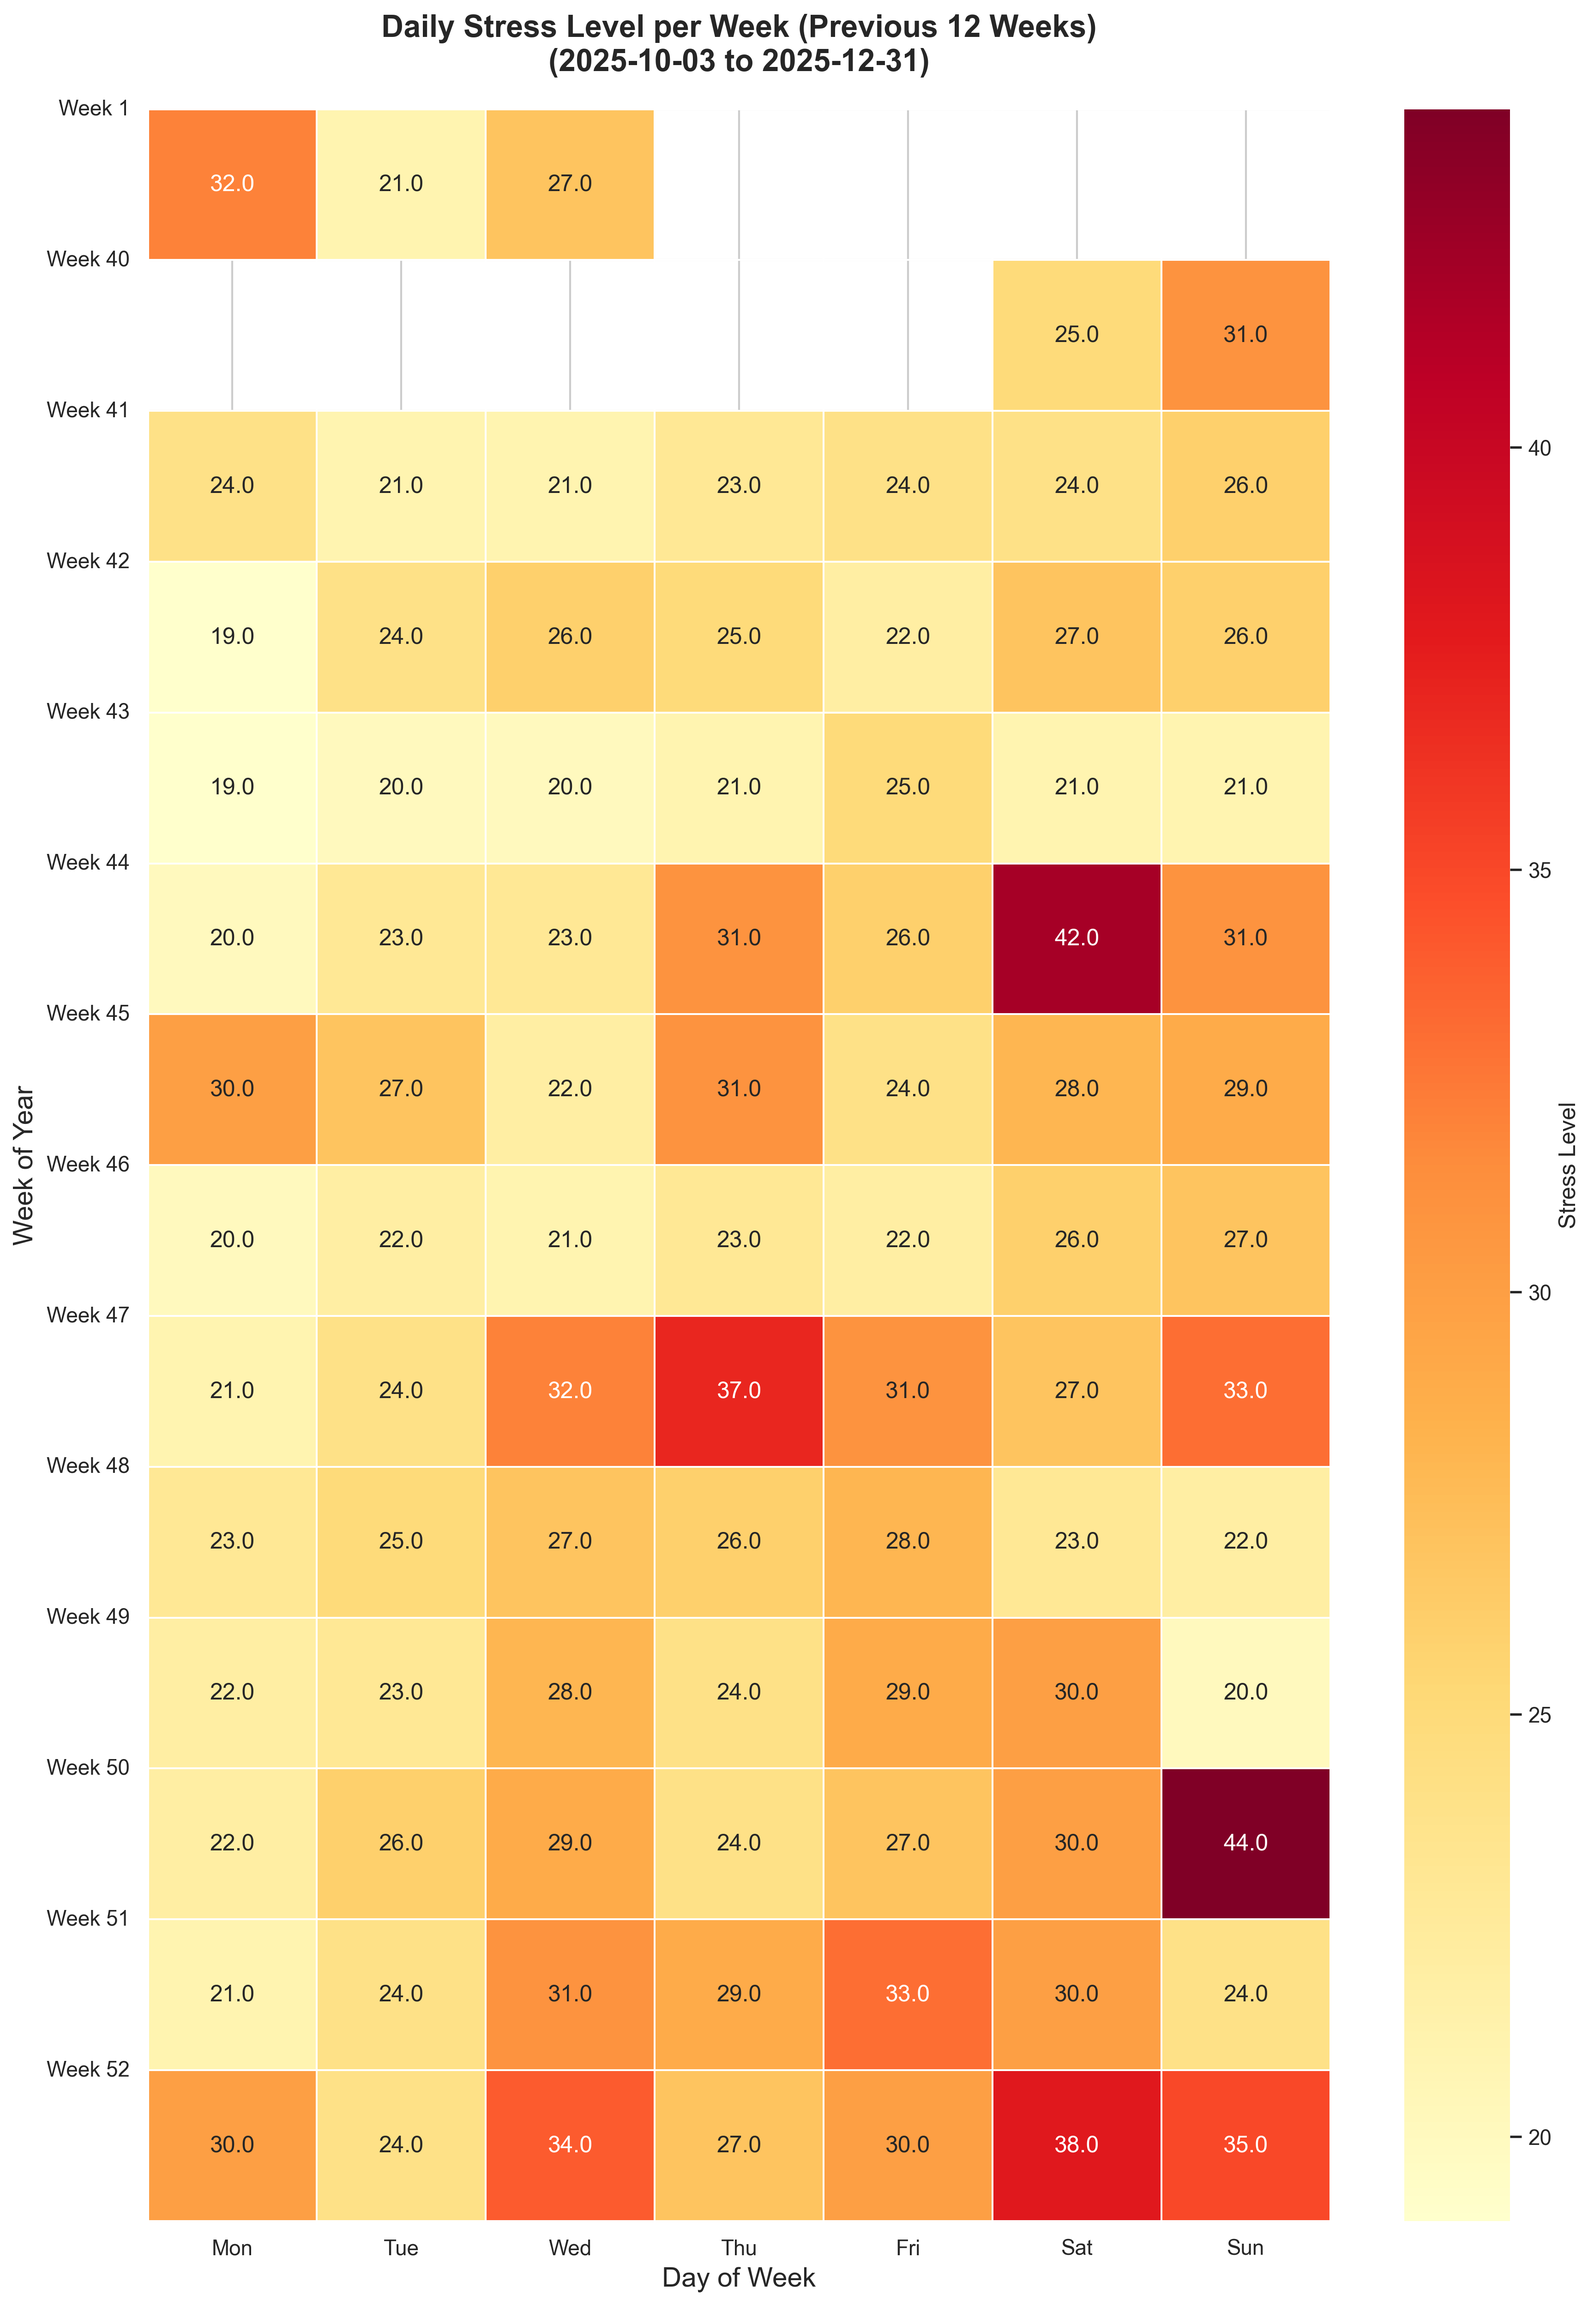
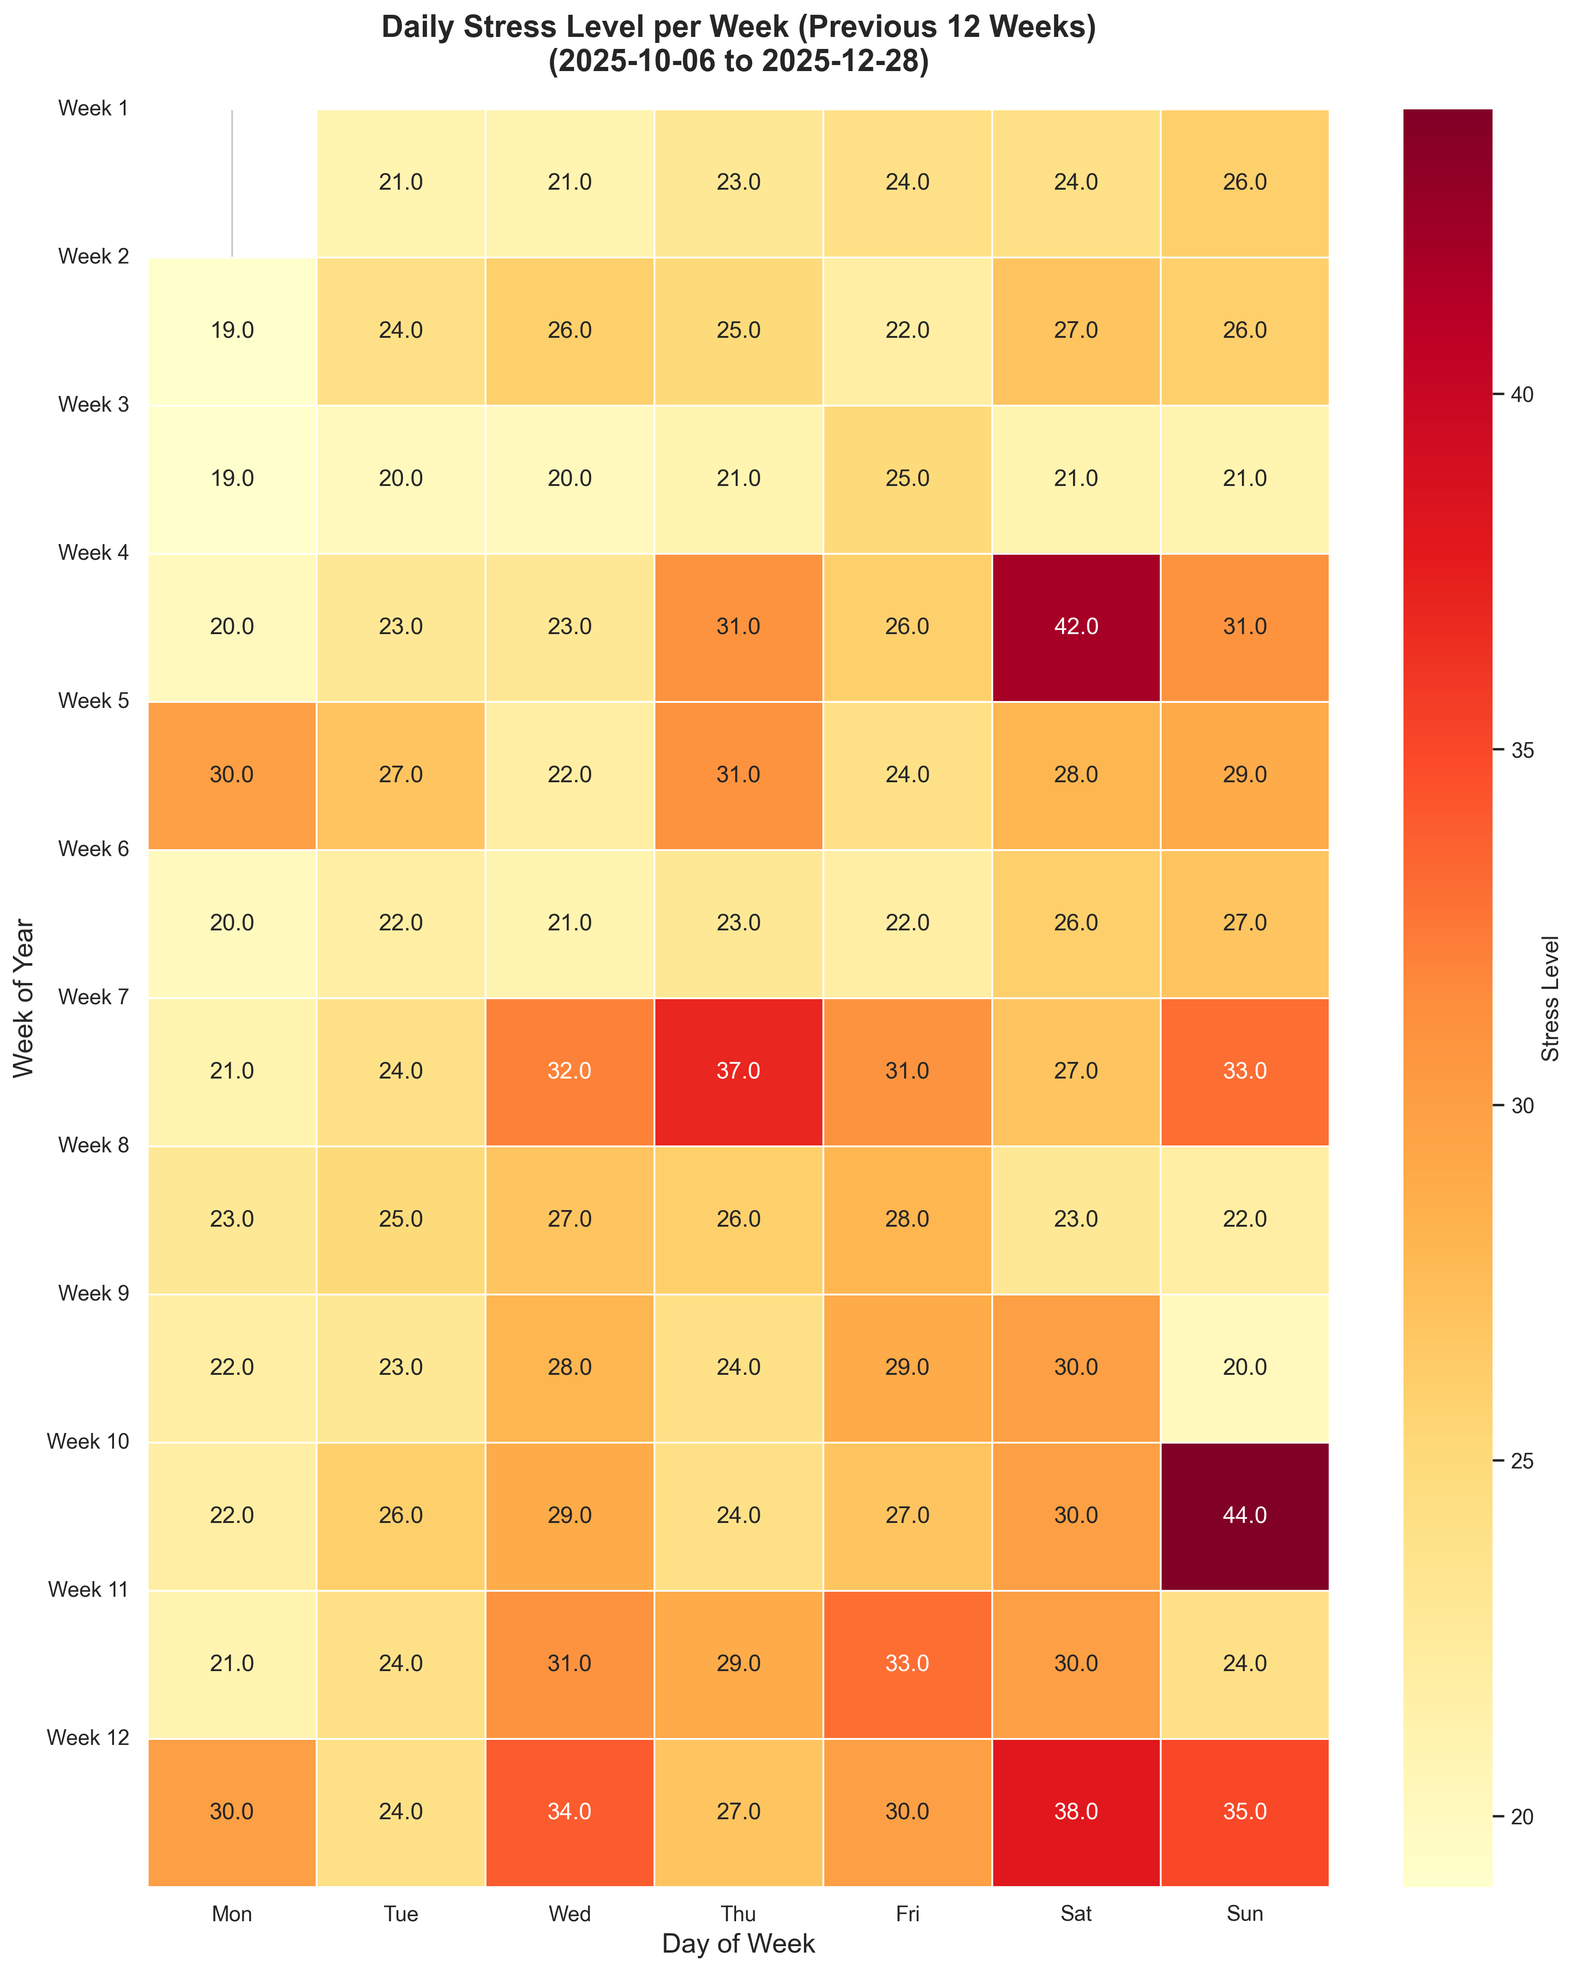
Updated 2025-q4 post

diff --git a/notebooks/stress_heatmap_12weeks.py b/notebooks/stress_heatmap_12weeks.py
@@ -28,11 +28,14 @@ def create_stress_heatmap_12weeks():
     # Create images directory if it doesn't exist
     os.makedirs('images', exist_ok=True)
     
-    # Calculate date range for previous 12 weeks (84 days)
-    start_date = end_date - timedelta(days=84)  # Exactly 12 weeks
+    # Normalize end_date to a date object to avoid mixed datetime/date arithmetic
+    end_date_obj = end_date.date() if isinstance(end_date, dt.datetime) else end_date
+    days_since_sunday = (end_date_obj.weekday() + 1) % 7
+    end_of_last_complete_week = end_date_obj - timedelta(days=days_since_sunday)
+    start_date = end_of_last_complete_week - timedelta(days=83)
     
-    print(f"Creating heatmap for stress levels from {start_date} to {end_date}")
-    print(f"Date range: {end_date - start_date} days (12 weeks)")
+    print(f"Creating heatmap for stress levels from {start_date} to {end_of_last_complete_week}")
+    # print(f"Date range: {end_of_last_complete_week - start_date} days (12 weeks)")
     
     # Initialize Garmin database connection
     gc_config = GarminConnectConfigManager()
@@ -40,7 +43,7 @@ def create_stress_heatmap_12weeks():
     
     # Query stress data for the previous 12 weeks
     start_ts = datetime.combine(start_date, datetime.min.time())
-    end_ts = datetime.combine(end_date, datetime.max.time())
+    end_ts = datetime.combine(end_of_last_complete_week, datetime.max.time())
     
     # Get daily summary data for the period
     sum_db = SummaryDb(db_params_dict, False)
@@ -61,10 +64,12 @@ def create_stress_heatmap_12weeks():
     
     # Populate the matrix by relative week index (0 = oldest week, 11 = most recent)
     for entry in stress_data:
-        diff_days = (entry.day - start_date).days
+        # Ensure we compare dates, not datetimes
+        entry_day = entry.day.date() if isinstance(entry.day, dt.datetime) else entry.day
+        diff_days = (entry_day - start_date).days
         if 0 <= diff_days < 12 * 7:
             week_idx = diff_days // 7
-            day_of_week = entry.day.weekday()  # 0=Monday, 6=Sunday
+            day_of_week = entry_day.weekday()  # 0=Monday, 6=Sunday
             heatmap_matrix[week_idx][day_of_week] = entry.stress_avg
     
     # Week labels (1-12)
@@ -102,7 +107,7 @@ def create_stress_heatmap_12weeks():
     # Add extra vertical padding by adjusting the spacing
     ax.figure.subplots_adjust(left=0.15, right=0.85, top=0.95, bottom=0.1)
     
-    plt.title(f'Daily Stress Level per Week (Previous 12 Weeks)\n({start_date.strftime("%Y-%m-%d")} to {end_date.strftime("%Y-%m-%d")})', 
+    plt.title(f'Daily Stress Level per Week (Previous 12 Weeks)\n({start_date.strftime("%Y-%m-%d")} to {end_of_last_complete_week.strftime("%Y-%m-%d")})', 
               fontsize=16, fontweight='bold', pad=20)
     plt.xlabel('Day of Week', fontsize=14)
     plt.ylabel('Week of Year', fontsize=14)

diff --git a/content/posts/2025-q4-health-review/index.md b/content/posts/2025-q4-health-review/index.md
@@ -19,10 +19,10 @@ One part of the test is flipping what could be so many negative thoughts into po
 
 As usual, there are four areas that I wanted to focus on:
 
-- *Improve fitness* by training more. My goal is to get above a 75 fitness score on intervals.icu
+- *Improve fitness* by training more. My goal is to maintain 800 intensity minutes on average per week.
 - *Sleep better* by improving my sleep hygiene and experimenting with meal timing.
-- *Reduce Stress* by examining meal composition and avoiding anything that might impact my sleep
-- *Improve Biomarkers* by looking at my nutrition, as well as the above items.
+- *Reduce stress* by examining meal composition and avoiding anything that might impact my sleep
+- *Improve biomarkers* by looking at my nutrition, as well as the above items.
 
 Overall most metrics saw a decrease in Q4, as we can see with the following key metrics.
   ![Summary Chart](2025-q4-health-review/summary.png)
@@ -38,13 +38,10 @@ Looking at the correlations, a few stood out:
 
 I've also used some of Garmin's new Lifelogging feature, and for the quarter the correlations that it picked up were:
 
-Overnight stress: the largest negative impact is being _injured_, and then _illness_, rounded out by _high work stress_
-
-Overnight sleep: the largest positive impact is having a _good wind down_, while the largest negative impact was _being injured_
+* Overnight stress: the largest negative impact is being _injured_, and then _illness_, rounded out by _high work stress_
+* Overnight sleep: the largest positive impact is having a _good wind down_, while the largest negative impact was _being injured_
 
 No surprises here.
-
-Let’s go through how I did this quarter and what I experimented with.
 #### Improve Fitness
 
 ##### Goals  
@@ -58,17 +55,16 @@ I look at intensity minutes as a way to make sure I'm getting enough fitness, re
   ![Weekly Intensity Minutes](2025-q4-health-review/weekly_intensity_minutes.png)
   
 
-My average intensity minutes for the quarter was was 610 minutes per week, which unfortunately is the only quarter in 2025 where I didn't reach my goal.
+My average intensity minutes for the quarter was was 610 minutes per week, which unfortunately is the only quarter in 2025 where I didn't reach my 800 minute goal.
 
-In addition to load we can have a look at Resting Heart Rate, as that is often related to sufficient recovery.
+In addition to load we can have a look at Resting Heart Rate, as that is often related to both load and sufficient recovery.
   ![Average Resting HR Per Month](2025-q4-health-review/average_resting_hr_per_month.png)
 
-And let's look at Vo2Max, which stayed roughly the same this quarter.
+And let's look at Vo2Max, which stayed roughly the same this quarter, but will crash when I start running again. I believe my high was 53 for a few weeks, but falling to 51 eventually as I couldn't make time (or have the discipline?) for my regular levels of fitness.
   ![Monthly Vo2Max Values](2025-q4-health-review/monthly_vo2_max.png)
 ##### Experiments
 
-* No major experiments.
-
+* In week 49-50 I managed to break my ankle, so wasn't able to run much in December. However, I've been meaning to pick up swimming, and while I'm not getting the same cardio effect as I got from running, at least I'm still exercising. I keep reminding myself that this isn't about good/bad, but better/worse. Plus, I'm learning a new skill, which is probably a good thing!
 #### Improve Sleep
 ##### Goals
 - Keep average sleep score about 80 ✅
@@ -81,7 +77,7 @@ And then when comparing each quarter this year we can see some trends with each 
 
 ![Average Sleep Score Per Month](2025-q4-health-review/sleep_score_per_day.png)
 
-Q4 was absolutely a challenging quarter for me from a sleep perspective, in particular in October.
+Q4 was absolutely a challenging quarter for me from a sleep perspective, in particular in October and November. December was more hit and miss, where some nights I would get high 80s, and other nights get 70s. One bad habit that I started to develop was cooking less meal prep, which resulted in both eating out more, and eating later. I think, for me, it really is best to eat a lightish lower carb meal between 4:00pm and 5:00pm.
 ##### Experiments
 
 I conducted a few sleep-related experiments this quarter, including:
@@ -119,9 +115,7 @@ Garmin's method of displaying stress has a delineation between low (blue, <25), 
 - Decrease hsCRP ❓
 ##### Analysis
 
-[INSERT CHART FROM PHENOAGE]:
-
-(Blood panels still to be taken)
+![](Pasted%20image%2020260206192440.png)
 ##### Experiments
 
 I did have a fair amount of experimentation here, including:

diff --git a/content/posts/2025-q3-health-review/index.md b/content/posts/2025-q3-health-review/index.md
@@ -17,8 +17,8 @@ As usual, there are four areas that I wanted to focus on:
 
 - *Improve fitness* by training more. My goal is to maintain 800 intensity minutes on average per week.
 - *Sleep better* by improving my sleep hygiene and experimenting with meal timing.
-- *Reduce Stress* by examining meal composition and avoiding anything that might impact my sleep
-- *Improve Biomarkers* by looking at my nutrition, as well as the above items.
+- *Reduce stress* by examining meal composition and avoiding anything that might impact my sleep
+- *Improve biomarkers* by looking at my nutrition, as well as the above items.
 
 Overall most metrics are improving, as we can see with the following key metrics.
 
@@ -259,15 +259,9 @@ I'll keep experimenting with Cronometer to refine my nutrition, and I've found g
 
 ##### Nutrition
 
-I'll update my Nutty Putting to remove the pea protein in an attempt to get my IGF-1 under control.
+* Play around with sprouting
 ##### Supplements
 
-I'll make the following changes my supplement stack, as it appears as though I am getting enough from food:
-
-* Calcium - remove
-* Fish oil - move to evening pills
-* Lysine - remove
-* Iron - increase from ad hoc to 3x per week
-* Zinc - increase to 15mg from 5mg 
+TBC
 
 Wish me luck!

diff --git a/content/posts/20NN-qN-health-review-TEMPLATE/index.md b/content/posts/20NN-qN-health-review-TEMPLATE/index.md
@@ -15,10 +15,11 @@ Add a reflection here.
 
 As usual, there are four areas that I wanted to focus on:
 
-- *Improve fitness* by training more. My goal is to get above a 75 fitness score on intervals.icu
+- *Improve fitness* by training more. My goal is to maintain 800 intensity minutes on average per week.
 - *Sleep better* by improving my sleep hygiene and experimenting with meal timing.
-- *Reduce Stress* by examining meal composition and avoiding anything that might impact my sleep
-- *Improve Biomarkers* by looking at my nutrition, as well as the above items.
+- *Reduce stress* by examining meal composition and avoiding anything that might impact my sleep
+- *Improve biomarkers* by looking at my nutrition, as well as the above items.
+
 
 Overall most metrics are improving, as we can see with the following key metrics.
   ![Summary Chart](2025-q3-health-review/summary.png)
@@ -60,7 +61,7 @@ And let's look at Vo2Max, which stayed roughly the same this quarter.
 
 #### Improve Sleep
 ##### Goals
-- Improve sleep quality ✅
+- Keep average sleep score about 80 ✅
 ##### Analysis
 
 Let's have a look at my sleep scores since buying my Garmin:
